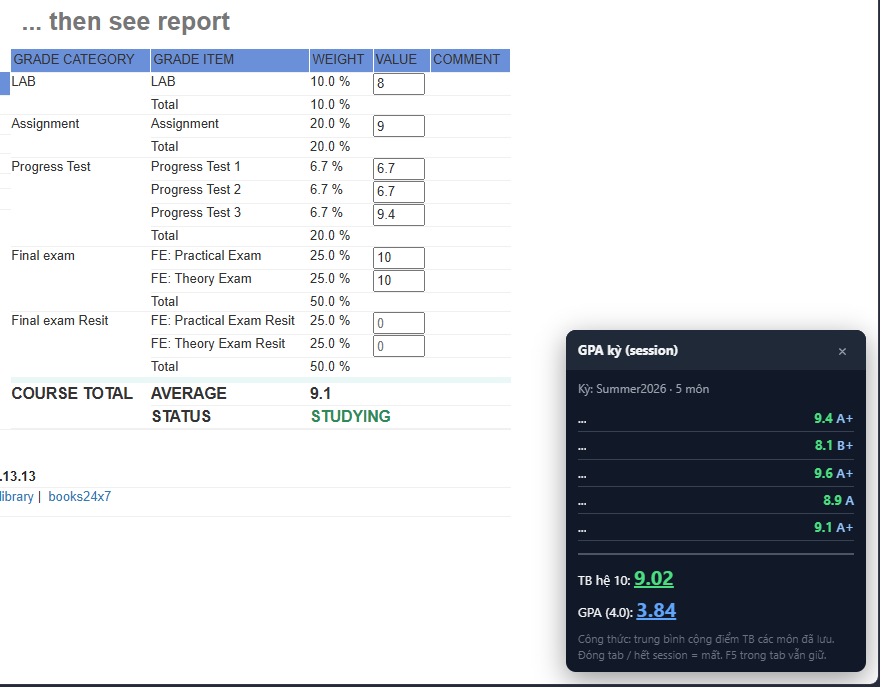
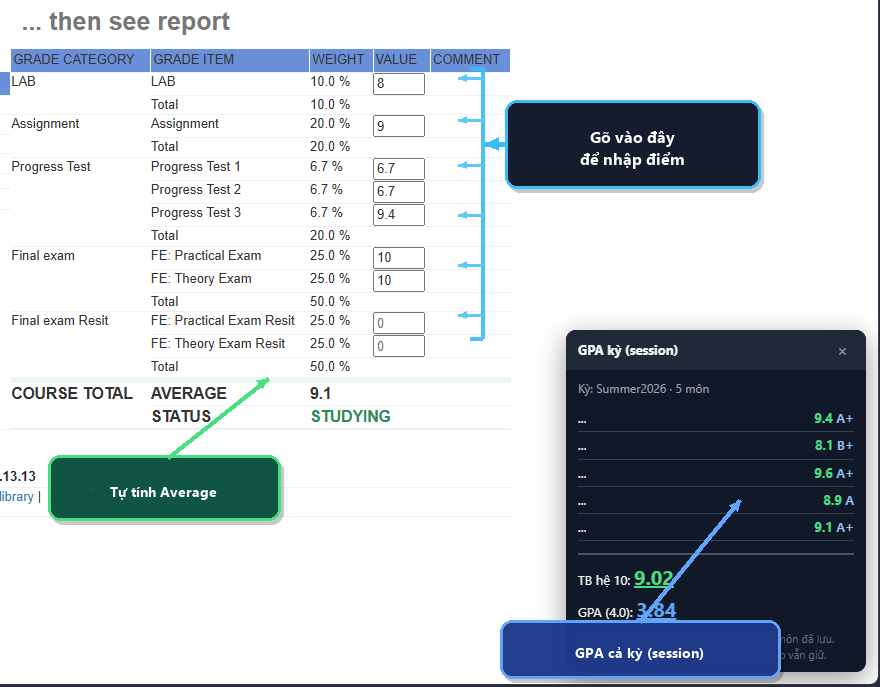
Annotate demo screenshot with callouts for Value inputs and GPA.
Add Vietnamese labels and arrows pointing at grade inputs, auto Average, and the session GPA panel so the landing page illustration is self-explanatory.

diff --git a/index.html b/index.html
@@ -295,7 +295,7 @@
         decoding="async"
       />
       <figcaption>
-        Minh họa trên FAP: nhập Value → Average theo weight (resit = 0 không thay lần 1) · panel GPA kỳ (session) bên phải.
+        Minh họa: mũi tên xanh chỉ cột <strong>Value</strong> (gõ điểm) → Average tự tính · panel GPA kỳ (session).
       </figcaption>
     </figure>
 

diff --git a/scripts/annotate_demo.py b/scripts/annotate_demo.py
@@ -1,0 +1,130 @@
+"""Annotate demo screenshot with callouts (exact Vietnamese text)."""
+from __future__ import annotations
+
+import math
+from pathlib import Path
+
+from PIL import Image, ImageDraw, ImageFont
+
+ROOT = Path(__file__).resolve().parents[1]
+SRC = ROOT / "assets" / "demo-screenshot-original.png"
+OUT = ROOT / "assets" / "demo-screenshot.png"
+
+
+def load_font(size: int, bold: bool = False) -> ImageFont.FreeTypeFont | ImageFont.ImageFont:
+    names = (
+        ["segoeuib.ttf", "arialbd.ttf"] if bold else ["segoeui.ttf", "arial.ttf", "tahoma.ttf", "calibri.ttf"]
+    )
+    windir = Path(r"C:\Windows\Fonts")
+    for name in names:
+        p = windir / name
+        if p.exists():
+            return ImageFont.truetype(str(p), size)
+    return ImageFont.load_default()
+
+
+def draw_arrow(draw: ImageDraw.ImageDraw, start, end, color, width=4, head=14) -> None:
+    x0, y0 = start
+    x1, y1 = end
+    draw.line([x0, y0, x1, y1], fill=color, width=width)
+    ang = math.atan2(y1 - y0, x1 - x0)
+    p1 = (x1 - head * math.cos(ang - 0.45), y1 - head * math.sin(ang - 0.45))
+    p2 = (x1 - head * math.cos(ang + 0.45), y1 - head * math.sin(ang + 0.45))
+    draw.polygon([end, p1, p2], fill=color)
+
+
+def rounded_label(draw, box, text, font, fill, outline, text_color, shadow=True) -> None:
+    x0, y0, x1, y1 = box
+    if shadow:
+        draw.rounded_rectangle([x0 + 3, y0 + 4, x1 + 3, y1 + 4], radius=12, fill=(0, 0, 0, 55))
+    draw.rounded_rectangle(box, radius=12, fill=fill, outline=outline, width=3)
+    bbox = draw.multiline_textbbox((0, 0), text, font=font, spacing=4, align="center")
+    tw, th = bbox[2] - bbox[0], bbox[3] - bbox[1]
+    tx = x0 + (x1 - x0 - tw) // 2
+    ty = y0 + (y1 - y0 - th) // 2
+    draw.multiline_text((tx, ty), text, font=font, fill=text_color, spacing=4, align="center")
+
+
+def main() -> None:
+    im = Image.open(SRC).convert("RGBA")
+    overlay = Image.new("RGBA", im.size, (0, 0, 0, 0))
+    d = ImageDraw.Draw(overlay)
+
+    f_body = load_font(16, bold=True)
+    f_small = load_font(14, bold=True)
+
+    # VALUE column region (approx for 880x687 capture)
+    value_x = 448
+    value_top = 68
+    value_bot = 338
+    bracket_x = value_x + 34
+
+    # 1) Main callout → input boxes
+    bubble1 = (505, 100, 760, 188)
+    rounded_label(
+        d,
+        bubble1,
+        "Gõ vào đây\nđể nhập điểm",
+        f_body,
+        fill=(15, 23, 42, 250),
+        outline=(56, 189, 248, 255),
+        text_color=(255, 255, 255, 255),
+    )
+
+    # Vertical bracket along Value column
+    blue = (56, 189, 248, 235)
+    d.line([(bracket_x, value_top), (bracket_x, value_bot)], fill=blue, width=4)
+    d.line([(bracket_x - 12, value_top), (bracket_x, value_top)], fill=blue, width=4)
+    d.line([(bracket_x - 12, value_bot), (bracket_x, value_bot)], fill=blue, width=4)
+
+    mid_y = (bubble1[1] + bubble1[3]) // 2
+    draw_arrow(d, (bubble1[0], mid_y), (bracket_x + 2, mid_y), (56, 189, 248, 255), width=5, head=16)
+
+    for y in (78, 120, 165, 215, 265, 315):
+        draw_arrow(d, (bracket_x, y), (value_x + 10, y), (56, 189, 248, 210), width=3, head=9)
+
+    # 2) Average auto-calc — dưới STATUS, không đè chữ STUDYING
+    bubble2 = (48, 455, 280, 520)
+    rounded_label(
+        d,
+        bubble2,
+        "Tự tính Average",
+        f_small,
+        fill=(6, 78, 59, 245),
+        outline=(74, 222, 128, 255),
+        text_color=(255, 255, 255, 255),
+    )
+    # Mũi tên chỉ vào số 9.1
+    draw_arrow(d, (bubble2[0] + 120, bubble2[1] + 2), (268, 378), (74, 222, 128, 255), width=4, head=12)
+
+    # 3) GPA panel — nhãn dưới panel, mũi tên lên
+    bubble3 = (500, 620, 780, 678)
+    # clamp if image shorter
+    if bubble3[3] > im.size[1] - 4:
+        dy = bubble3[3] - (im.size[1] - 8)
+        bubble3 = (bubble3[0], bubble3[1] - dy, bubble3[2], bubble3[3] - dy)
+    rounded_label(
+        d,
+        bubble3,
+        "GPA cả kỳ (session)",
+        f_small,
+        fill=(30, 58, 138, 250),
+        outline=(96, 165, 250, 255),
+        text_color=(255, 255, 255, 255),
+    )
+    draw_arrow(
+        d,
+        ((bubble3[0] + bubble3[2]) // 2, bubble3[1] + 2),
+        (740, 500),
+        (96, 165, 250, 255),
+        width=4,
+        head=12,
+    )
+
+    out = Image.alpha_composite(im, overlay).convert("RGB")
+    out.save(OUT, "PNG", optimize=True)
+    print(f"Wrote {OUT} ({out.size[0]}x{out.size[1]})")
+
+
+if __name__ == "__main__":
+    main()